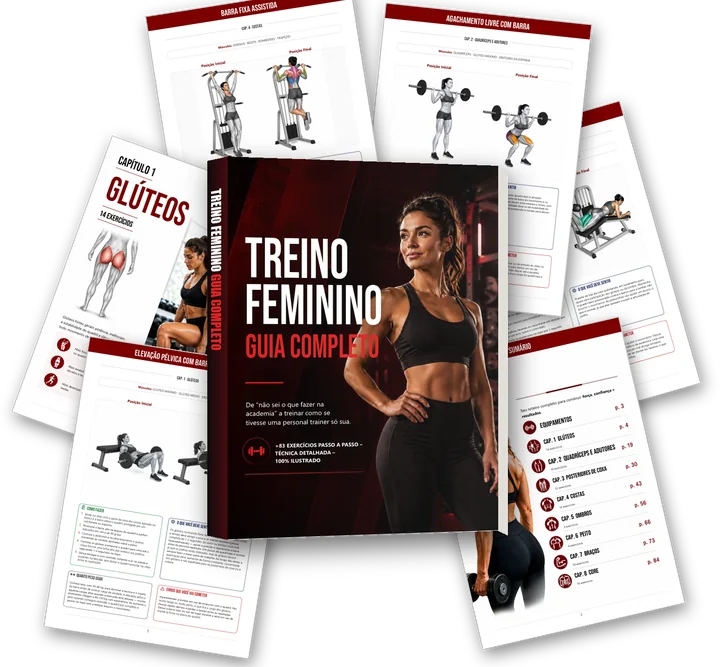
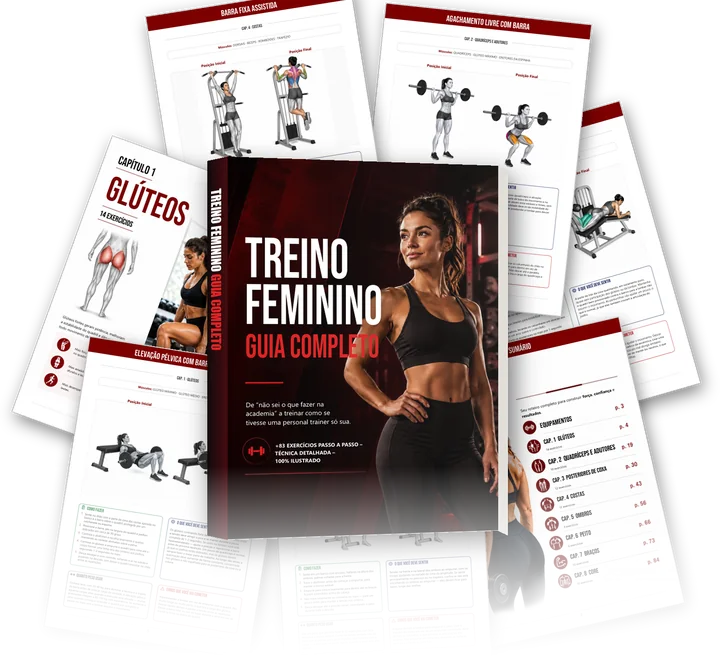
Guia feminino: mockup com página atrás da capa e gradiente de transparência embaixo (script em scripts/mockup_guia.py)

Changed region(s): [[0.0611, 0.7196, 0.9778, 1.0], [0.8861, 0.7796, 0.9472, 0.8696]]

diff --git a/scripts/mockup_guia.py b/scripts/mockup_guia.py
@@ -1,0 +1,144 @@
+"""Mockup do Guia de Treino Feminino: livro 3D no centro com páginas reais do PDF em leque atrás.
+Uso: python -I mockup_guia.py <pdf> <saida_sem_extensao>
+"""
+import sys
+import numpy as np
+import pymupdf
+from PIL import Image, ImageDraw, ImageFilter, ImageFont, ImageOps
+
+PDF, SAIDA = sys.argv[1], sys.argv[2]
+doc = pymupdf.open(PDF)
+
+
+def pagina(n, largura):
+    pg = doc[n - 1]
+    zoom = largura / pg.rect.width
+    pix = pg.get_pixmap(matrix=pymupdf.Matrix(zoom, zoom), alpha=False)
+    return Image.frombytes('RGB', (pix.width, pix.height), pix.samples).convert('RGBA')
+
+
+def coefs(dst, src):
+    """Coeficientes do Image.transform PERSPECTIVE que levam src (4 pontos) a dst."""
+    m = []
+    for (x, y), (u, v) in zip(dst, src):
+        m.append([x, y, 1, 0, 0, 0, -u * x, -u * y])
+        m.append([0, 0, 0, x, y, 1, -v * x, -v * y])
+    a = np.array(m, dtype=float)
+    b = np.array(src, dtype=float).reshape(8)
+    return np.linalg.solve(a, b).tolist()
+
+
+def com_sombra(img, raio=18, desloc=(0, 14), opac=110):
+    """Imagem RGBA com sombra suave (margem extra em volta)."""
+    pad = raio * 3
+    w, h = img.size
+    base = Image.new('RGBA', (w + pad * 2, h + pad * 2), (0, 0, 0, 0))
+    alpha = img.split()[3]
+    sombra = Image.new('RGBA', img.size, (0, 0, 0, opac))
+    sombra.putalpha(alpha.point(lambda p: opac if p > 0 else 0))
+    base.alpha_composite(sombra, (pad + desloc[0], pad + desloc[1]))
+    base = base.filter(ImageFilter.GaussianBlur(raio))
+    base.alpha_composite(img, (pad, pad))
+    return base
+
+
+def folha(n, largura, angulo):
+    img = pagina(n, largura)
+    # borda cinza fina, como papel
+    d = ImageDraw.Draw(img)
+    d.rectangle([0, 0, img.width - 1, img.height - 1], outline=(200, 200, 200, 255), width=2)
+    img = img.rotate(angulo, resample=Image.BICUBIC, expand=True)
+    return com_sombra(img, raio=16, desloc=(6, 12), opac=120)
+
+
+def livro(largura):
+    capa = pagina(1, largura)
+    w, h = capa.size
+    lomb = int(w * 0.075)  # largura visível da lombada
+    esp = int(w * 0.035)  # espessura das folhas (lado direito/baixo)
+    W, H = w + lomb + esp + 40, h + esp + 60
+    out = Image.new('RGBA', (W, H), (0, 0, 0, 0))
+
+    # Capa em leve perspectiva (lado direito um pouco menor, como girada)
+    topo_d, base_d = int(h * 0.025), int(h * 0.025)
+    x0, x1 = lomb, lomb + w
+    dst = [(x0, 0), (x1, topo_d), (x1, h - base_d), (x0, h)]
+    capa_p = capa.transform((W, H), Image.PERSPECTIVE, coefs(dst, [(0, 0), (w, 0), (w, h), (0, h)]), Image.BICUBIC)
+
+    # Folhas (miolo branco) aparecendo à direita, atrás da capa
+    miolo = Image.new('RGBA', (W, H), (0, 0, 0, 0))
+    dm = ImageDraw.Draw(miolo)
+    dm.polygon([(x1, topo_d), (x1 + esp, topo_d + esp), (x1 + esp, h - base_d + esp // 2), (x1, h - base_d)], fill=(236, 233, 228, 255))
+    for k in range(1, esp, 3):  # linhas das páginas
+        dm.line([(x1 + k, topo_d + k), (x1 + k, h - base_d + k // 2)], fill=(205, 200, 194, 255), width=1)
+
+    # Lombada (escura, com o título na vertical)
+    lomb_img = Image.new('RGBA', (lomb, h), (18, 10, 12, 255))
+    grad = Image.linear_gradient('L').rotate(90).resize((lomb, h))
+    lomb_img = Image.composite(Image.new('RGBA', (lomb, h), (70, 12, 16, 255)), lomb_img, grad)
+    try:
+        fonte = ImageFont.truetype('C:/Windows/Fonts/impact.ttf', int(lomb * 0.62))
+    except OSError:
+        fonte = ImageFont.load_default()
+    txt = Image.new('RGBA', (h, lomb), (0, 0, 0, 0))
+    dt = ImageDraw.Draw(txt)
+    dt.text((h * 0.08, lomb * 0.16), 'TREINO FEMININO', font=fonte, fill=(255, 255, 255, 255))
+    dt.text((h * 0.08 + dt.textlength('TREINO FEMININO ', font=fonte), lomb * 0.16), 'GUIA COMPLETO', font=fonte, fill=(220, 38, 38, 255))
+    lomb_img.alpha_composite(txt.rotate(-90, expand=True))
+    lomb_dst = [(0, int(h * 0.012)), (lomb, 0), (lomb, h), (0, h - int(h * 0.012))]
+    lomb_p = lomb_img.transform((W, H), Image.PERSPECTIVE, coefs(lomb_dst, [(0, 0), (lomb, 0), (lomb, h), (0, h)]), Image.BICUBIC)
+
+    out.alpha_composite(miolo)
+    out.alpha_composite(lomb_p)
+    out.alpha_composite(capa_p)
+    # brilho suave na capa (luz vinda da esquerda)
+    brilho = Image.linear_gradient('L').rotate(90).resize((W, H)).point(lambda p: int(p * 0.10))
+    luz = Image.new('RGBA', (W, H), (255, 255, 255, 0))
+    luz.putalpha(Image.composite(brilho, Image.new('L', (W, H), 0), capa_p.split()[3]))
+    out.alpha_composite(luz)
+    return com_sombra(out, raio=26, desloc=(10, 22), opac=150)
+
+
+CW, CH = 1500, 1380
+tela = Image.new('RGBA', (CW, CH), (0, 0, 0, 0))
+
+
+def colar(img, cx, cy):
+    tela.alpha_composite(img, (int(cx - img.width / 2), int(cy - img.height / 2)))
+
+
+# páginas em leque (de trás para frente): número da página no PDF, largura, ângulo, centro
+FOLHAS = [
+    (31, 430, 16, 1160, 560),   # posteriores de coxa
+    (20, 430, -6, 980, 330),    # quadríceps
+    (2, 430, 13, 1140, 1000),   # sumário
+    (44, 430, 9, 560, 300),     # costas
+    (4, 430, -20, 330, 640),    # abertura: glúteos
+    (5, 430, -9, 350, 1030),    # hip thrust
+    (57, 430, 3, 790, 1120),    # ombros: preenche o vão abaixo da capa, atrás do livro
+]
+for n, lw, ang, cx, cy in FOLHAS:
+    colar(folha(n, lw, ang), cx, cy)
+
+colar(livro(560), 760, 760)
+
+bbox = tela.getbbox()
+final = tela.crop(bbox)
+
+# Gradiente de transparência na parte de baixo (como a imagem do app na oferta do quiz):
+# o último FADE da altura some aos poucos até ficar transparente
+FADE = 0.30
+fw, fh = final.size
+ini = int(fh * (1 - FADE))
+mascara = Image.new('L', (fw, fh), 255)
+dm = ImageDraw.Draw(mascara)
+for y in range(ini, fh):
+    t = (y - ini) / max(1, fh - ini)
+    dm.line([(0, y), (fw, y)], fill=int(255 * (1 - t) ** 1.6))
+alpha = final.split()[3]
+final.putalpha(Image.fromarray((np.asarray(alpha, dtype=np.float32) * np.asarray(mascara, dtype=np.float32) / 255).astype('uint8')))
+for largura, sufixo in ((1100, ''), (720, '-720')):
+    f = final.resize((largura, round(final.height * largura / final.width)), Image.LANCZOS)
+    f.save(f'{SAIDA}{sufixo}.webp', 'WEBP', quality=84, method=6)
+    print(f'{SAIDA}{sufixo}.webp', f.size)
+final.convert('RGBA').save(f'{SAIDA}-previa.png')
